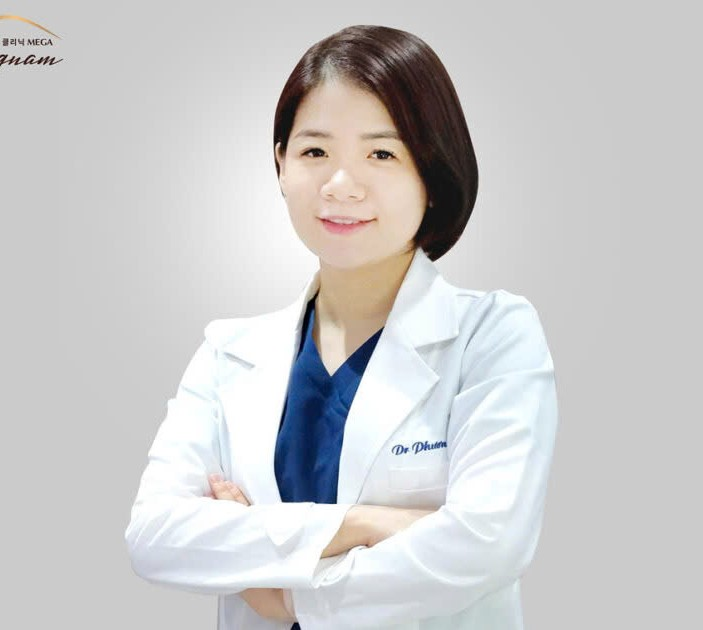
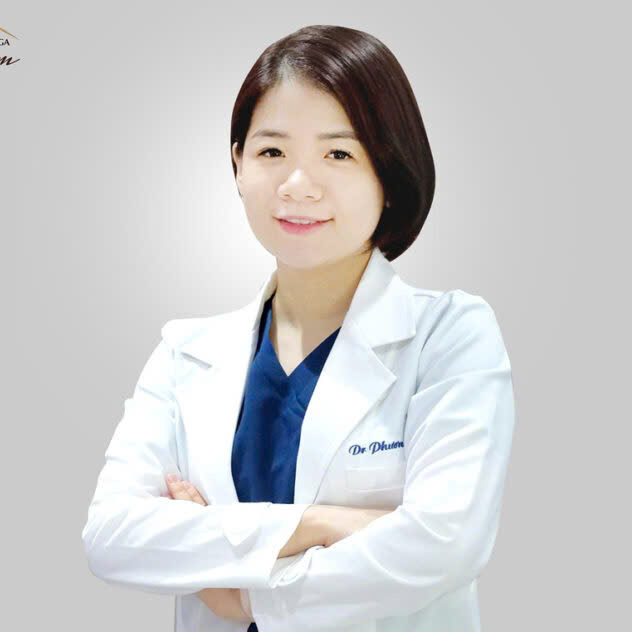
update trang tu van

diff --git a/tu-van/index.html b/tu-van/index.html
@@ -203,7 +203,7 @@
             <div class="container-md">
                 <div class="inner-content">
                     <div class="form-container">
-                        <h2>Hãy giúp chúng tôi kết nối với bạn</h2>
+                        <h2>Hãy kết nối với chúng tôi!</h2>
                         <form action="#" method="post">
                             <div class="form-group">
                                 <label for="fullname">Họ và tên:</label>
@@ -228,21 +228,95 @@
                             </div>
 
                             <div class="form-group">
-                                <label for="service">Gói dịch vụ:</label>
+                                <label for="service">Cần giúp đỡ:</label>
                                 <select id="service" name="service" required>
-                                    <option value="">Chọn gói dịch vụ</option>
-                                    <option value="list1">List1</option>
-                                    <option value="list2">List2</option>
-                                    <option value="list3">List3</option>
-                                    <option value="list4">List4</option>
-                                    <option value="list5">List5</option>
+                                    <option value="">Vấn đề bạn cần giúp đỡ</option>
+                                    <option value="list1">Tôi muốn 1</option>
+                                    <option value="list2">Tôi muốn 2</option>
+                                    <option value="list3">Tôi muốn 3</option>
+                                    <option value="list4">Tôi muốn 4</option>
+                                    <option value="list5">Tôi muốn 5</option>
                                 </select>
                             </div>
 
-                            <div class="form-group">
+                            <div class="form-group" id="form-button">
                                 <button type="submit">Gửi thông tin</button>
                             </div>
                         </form>
+                    </div>
+                </div>
+            </div>
+        </div>
+        <div class="section-four">
+            <div class="container-md">
+                <div class="inner-content">
+                    <div class="row">
+                        <div class="col-xl-3 col-lg-3 col-md-3 col-sm-3 col-3">
+                            <div class="plan">
+                                <div class="top">
+                                    <h3 class="color-than-thiet">Hạng Thân thiết</h3>
+                                    <div class="button-default">Hiện tại</div>
+                                </div>
+                                <div class="bottom">
+                                    <p><i class="fa-regular fa-circle-check"></i>02 Lượt quét da định kì theo tuần</p>
+                                    <p><i class="fa-regular fa-circle-check"></i>Giảm giá 20% cho lượt nâng cấp gói đầu tiên.</p>
+                                </div>
+                            </div>
+                        </div>
+                        <div class="col-xl-3 col-lg-3 col-md-3 col-sm-3 col-3">
+                            <div class="plan">
+                                <div class="top">
+                                    <h3 class="color-silver">Hạng Bạc</h3>
+                                    <h5>169.000 đ/tháng</h5>
+                                    <a href=""><div class="button">Nâng cấp</div></a>
+                                </div>
+                                <div class="bottom">
+                                    <p><i class="fa-regular fa-circle-check"></i>10 lượt quét chuẩn đoán da định kì theo tuần.</p>
+                                    <p><i class="fa-regular fa-circle-check"></i>Nhận ưu đãi, giảm giá theo ngày đặc biệt, sự kiện đặc biệt.</p>
+                                    <p><i class="fa-regular fa-circle-check"></i>Vượt truy cập trang web khi trang web đạt tối đa truy cập.</p>
+                                    <p><i class="fa-regular fa-circle-check"></i>01 Lịch chăm sóc sức khoẻ gợi ý cá nhân được chuyên gia thiết kế riêng.</p>
+                                    <p><i class="fa-regular fa-circle-check"></i>Giảm giá lên đến 15% áp dụng cho các dịch vụ chăm sóc sức khoẻ trực tiếp.</p>
+                                </div>
+                            </div>
+                        </div>
+                        <div class="col-xl-3 col-lg-3 col-md-3 col-sm-3 col-3">
+                            <div class="plan rec">
+                                <div class="top">
+                                    <div class="recommend"><p>Đề xuất</p></div>
+                                    <h3 class="color-gold">Hạng Vàng</h3>
+                                    <h5>269.000 đ/tháng</h5>
+                                    <a href=""><div class="button">Nâng cấp</div></a>
+                                </div>
+                                <div class="bottom">
+                                    <p><i class="fa-regular fa-circle-check"></i>20 lượt quét chuẩn đoán da định kì theo tuần.</p>
+                                    <p><i class="fa-regular fa-circle-check"></i>Ưu tiên kết nối với chuyên gia.</p>
+                                    <p><i class="fa-regular fa-circle-check"></i>Nhận ưu đãi, giảm giá theo ngày đặc biệt, sự kiện đặc biệt.</p>
+                                    <p><i class="fa-regular fa-circle-check"></i>Vòng quay giảm giá dịp sinh nhật.</p>
+                                    <p><i class="fa-regular fa-circle-check"></i>Vượt truy cập trang web khi trang web đạt tối đa truy cập.</p>
+                                    <p><i class="fa-regular fa-circle-check"></i>02 Lịch chăm sóc sức khoẻ gợi ý cá nhân được chuyên gia thiết kế riêng.</p>
+                                    <p><i class="fa-regular fa-circle-check"></i>Giảm giá lên đến 25% áp dụng cho các dịch vụ chăm sóc sức khoẻ trực tiếp.</p>
+                                </div>
+                            </div>
+                        </div>
+                        <div class="col-xl-3 col-lg-3 col-md-3 col-sm-3 col-3">
+                            <div class="plan">
+                                <div class="top">
+                                    <h3 class="color-plat">Hạng Bạch kim</h3>
+                                    <h5>349.000 đ/tháng</h5>
+                                    <a href=""><div class="button">Nâng cấp</div></a>
+                                </div>
+                                <div class="bottom">
+                                    <p><i class="fa-regular fa-circle-check"></i>Không giới hạn lượt quét chuẩn đoán da định kì theo tuần.</p>
+                                    <p><i class="fa-regular fa-circle-check"></i>Ưu tiên kết nối với chuyên gia sớm nhất.</p>
+                                    <p><i class="fa-regular fa-circle-check"></i>Nhận ưu đãi, giảm giá theo ngày đặc biệt, sự kiện đặc biệt.</p>
+                                    <p><i class="fa-regular fa-circle-check"></i>Thiệp chúc mừng sinh nhật, vòng quay giảm giá dịp sinh nhật.</p>
+                                    <p><i class="fa-regular fa-circle-check"></i>Vượt truy cập trang web khi trang web đạt tối đa truy cập.</p>
+                                    <p><i class="fa-regular fa-circle-check"></i>Miễn phí vận chuyển cho mọi đơn hàng.</p>
+                                    <p><i class="fa-regular fa-circle-check"></i>03 Lịch chăm sóc sức khoẻ gợi ý cá nhân được chuyên gia thiết kế riêng.</p>
+                                    <p><i class="fa-regular fa-circle-check"></i>Giảm giá lên đến 35% áp dụng cho các dịch vụ chăm sóc sức khoẻ trực tiếp.</p>
+                                </div>
+                            </div>
+                        </div>
                     </div>
                 </div>
             </div>

diff --git a/assets/css/tu-van.css b/assets/css/tu-van.css
@@ -287,6 +287,97 @@ header .inner-header .menu i {
 }
 /* End Section Three */
 
+/* Section Four */
+.section-four{
+    background-color: var(--color-primary);
+}
+.section-four .inner-content{
+    padding: 2rem 0;
+}
+.section-four .plan{
+    min-height: 90vh;
+    border: 1px solid lightgray; 
+    padding: 1.5rem;
+    border-radius: 1.5rem;
+    box-shadow: 0 0 0.5rem 1px rgba(0, 0, 0, 0.1);
+}
+.section-four .plan .top {
+    border-bottom: 0.5px solid lightgray;
+    text-align: center;
+    padding: 1.5rem 0;
+}
+
+.section-four .plan .top h3{
+    font-size: 1.3rem;
+    font-weight: 700;
+}
+
+.section-four .plan .top .button{
+    display: inline-block;
+    padding: 0.5rem 1.3rem;
+    border-radius: 1.3rem;
+    margin-top: 0.5rem;
+    border: 1px solid gray;
+    color: rgb(1, 154, 250);
+    font-weight: 500;
+}
+.section-four .plan .top .button-default{
+    display: inline-block;
+    padding: 0.5rem 1.3rem;
+    border-radius: 1.3rem;
+    margin-top: 0.5rem;
+    border: 1px solid gray;
+    color:  var(--color-br-dark);
+    font-weight: 500;
+    background-color: var(--color-primary);
+}
+.section-four .plan .top .button:hover{
+    background-color: lightgray;
+    color: var(--color-dark);
+    transition: 0.5s;
+}
+.section-four .plan .top h5{
+    font-size: 1.5rem;
+    font-weight: 600;
+}
+.section-four .plan .bottom{
+    padding: 1.5rem 0;
+}
+.section-four .plan .bottom i{
+    margin-right: 0.5rem;
+    color: rgb(59, 59, 248);
+}
+.section-four .plan .bottom p{
+    font-size: 0.9rem;
+}
+.section-four .rec{
+    position: relative;
+    border: 1px solid lightcoral;
+    box-shadow: 0 0 1rem 1px rgba(233, 179, 143, 0.637);
+}
+.section-four .plan .recommend{
+    position: absolute;
+    top: 2%;
+    left: 50%;
+    transform: translateX(-50%);
+    color: rgb(59, 59, 248);
+    font-size: 0.8rem;
+    font-weight: 700;
+}
+/* .section-four .color-silver{
+    color: var(--color-text);
+}
+.section-four .color-gold{
+    color: gold;
+}
+.section-four .color-plat{
+    color: rgb(61, 224, 224);
+}
+.section-four .color-than-thiet{
+
+} */
+/* End Section Four */
+
 /* Responsive */
 @media (max-width: 1199.98px) {
     .section-two .inner-content .item {

diff --git a/assets/css/trangchu.css b/assets/css/trangchu.css
@@ -265,7 +265,7 @@ header .inner-header .menu i{
     width: 150px;
     height: 150px;
     border-radius: 50%;
-    object-fit: contain;
+    object-fit: cover;
     margin-top: 30px;
     margin-bottom: 20px;
 }
